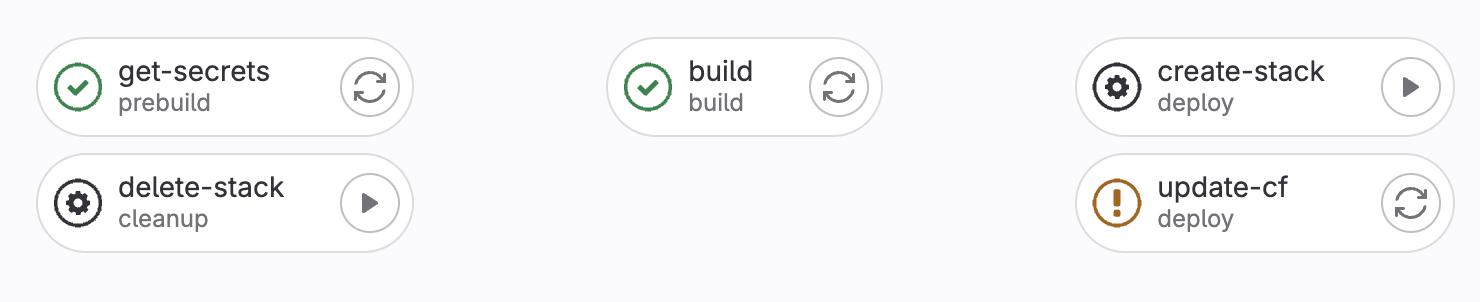
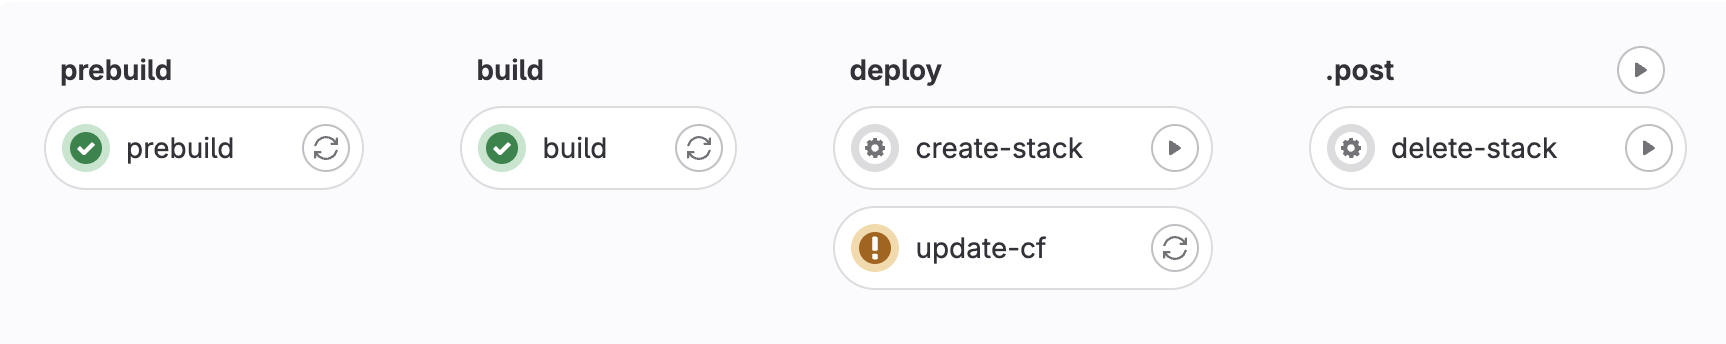
gitlab

diff --git a/_posts/2024-01-22-self-serve-gitlab-environments.md b/_posts/2024-01-22-self-serve-gitlab-environments.md
@@ -1,0 +1,191 @@
+---
+title: "Self-Service testing environment(s)"
+date: 2023-11-01T15:34:30-04:00
+categories:
+  - blog
+tags:
+  - Gitlab
+  - CICD
+  - AWS
+  - Cloudformation
+toc: true
+toc_label: "Contents"
+toc_icon: "book-open"
+---
+
+<style>
+    .page__content {
+        text-align: justify;
+    }
+</style>
+
+
+![image](/assets/images/cart.png)
+
+## What and Why
+
+We originally started with two environments: production and development. Production was built from master and development from our develop branches.
+Developers added code as it was finished to the develop environment, qa personnel did their tests there and after their approval and after getting "business approval" from the manager, the changes were merged to the master branch and automatically deployed.
+
+This worked for a while but as the company grew it caused issues. Things sometimes got out of sync as the development environment contained both the code that the developers uploaded for their own client-server integration, the code that was in testing and the code that was out of testing and waiting for approval to be deployed.
+
+We quickly added another staging environment/branch pair for code that was ready for final testing and all deployment was done from this branch after final testing passed
+
+Eventually 2 issues appeared. One, sometimes out of the multiple changes on the staging environment only some were approved by the manager. This slowed down development as the environment had to be tested all over again after taking out the unapproved changes.
+Second, as the team increased having multiple devs working on a single development environment sometimes caused issues and downtime due to conflicts. 
+
+Eventually we decided to start working with multiple short-lived environments which would be forked from master on demand. Every larger issue in a sprint would get their own environment created and smaller ones like bugfixes could be bundled up in a single one. After developers finished, the unique environment will get into the hands of the QA department and after it passed and final approvals were given the deployment would be done directly from the unique environment to master.
+
+We wanted to give the ability to the developers to create and destroy environments as needed to make the whole procedure are agile as possible as I feared that any unnecessary procedure or bureaucracy would cause them to revert to the old system of using a single environment for everything.
+
+One option was to create a brand new dashboard for this or go with a custom one. Luckily the combination of gitlab and cloudformation allowed us to use the already existing CI/CD pipelines with some smaller changes.
+
+
+## Cloudformation
+
+We start with a basi
+
+## Gitlab
+
+The resulting pipeline looks something like this. 
+
+
+![image](/assets/images/pipeline.png)
+
+
+
+The **"prebuild"** and **"build"** steps get executed for all branches. This will make sure every commit in the repo gets a flag that it can at least build and pass unit tests. 
+
+
+Then the pipeline continues with the deploy stage and the **"update"** step, which will be skipped if the environment doesn't exist. To create a deployed environment for this branch just simply click on play button next to the **"create-stack"** step.
+
+After the environment is created every following commit to this branch will deploy automatically to it through the **"update"** step.
+
+
+To delete the stack simply start the manual step **"delete-stack"** and all traces of it will be deleted. Both delete and create steps have been disabled on our default branch which deploys the production environment for obvious reasons.
+
+
+## CICD Pipeline
+
+### Placeholders and boilerplate
+
+First we define the default docker image used in the pipeline, make sure the pipeline triggers on commits and define the 3 stages. The first two stages are just placeholders to later be filled with actual build and test commands.
+
+
+
+
+```yaml
+image: registry.gitlab.com/gitlab-org/cloud-deploy/aws-base:latest
+
+workflow:
+    rules:
+        - if: '$CI_PIPELINE_SOURCE == "merge_request_event"'
+          when: never
+        - if: "$CI_COMMIT_BRANCH"
+
+stages:
+    - prebuild
+    - build
+    - deploy
+
+
+prebuild:
+    stage: prebuild
+    script:
+        - echo secrets > .env
+    artifacts:
+        paths:
+            - .env
+
+build:
+    stage: build
+    script:
+        - mkdir dist
+        - echo scripts > ./dist/app.js
+    artifacts:
+        paths:
+            - dist/**
+
+```
+
+### Create and Update stacks
+
+We wish to create 2 steps, one manual which will create a new cloudformation stack and one automatic which will check if the stack with that name already exists and update it if it does or exit if it doesn't. 
+
+We can perform the check for the existence of the stack with the `aws cloudformation get-template-summary NAME` command, which will exit with a failure code if a stack with that name doesn't exits and make the step `allow_failure: true`. This isn't optimal as the step will be rendered with a yellow ! in gitlab's UI in this case, possibly causing some confusion. But we will keep it like this for now because gitlab doesn't allow for an easy way for a job to affect the flow of a pipeline.
+
+Now there are 2 different ways we can do this. We can use the `cloudformation deploy` command for both, or use a combination of `cloudformation create-stack` and `cloudformation update-stack`. The `deploy` command is simpler and easier to use but lacks some of the more granular options in the `update/create` CLI commands like rollbacks and stack policies. For now lets go with just deploy, but in a later blog I'll demonstrate how to implement automatic stack rollback on server errors using the `update-stack` command.
+
+We will name our stack: `stack-$CI_COMMIT_REF_SLUG` which will resolve in gitlab runner to the slug of the current branch branch if the trigger for the pipeline is a commit. And we will setup rules so that `create` can't trigger on the master branch and requires a manual step on other branches, and that updating the master branch stack requires a manual confirmation and is automatic on all other branches.
+
+
+```yaml
+
+create-stack:
+    stage: deploy
+    image: registry.gitlab.com/gitlab-org/cloud-deploy/aws-base:latest
+    allow_failure: true
+    script:
+        - aws cloudformation package --template-file ./cf.yml --s3-bucket $DEPLOY_BUCKET  --output-template-file packaged-sam.yaml
+       - aws cloudformation deploy --template-file packaged-sam.yaml  --stack-name stack-$CI_COMMIT_REF_SLUG --capabilities CAPABILITY_NAMED_IAM CAPABILITY_IAM CAPABILITY_AUTO_EXPAND --parameter-override BRANCH=$CI_COMMIT_REF_SLUG --s3-bucket deploy-bucket-841805187071
+    rules:
+        - if: '$CI_COMMIT_BRANCH != "master"'
+          when: manual
+        - if: '$CI_COMMIT_BRANCH == "master"'
+          when: never
+
+update-cf:
+    stage: deploy
+    image: registry.gitlab.com/gitlab-org/cloud-deploy/aws-base:latest
+    allow_failure: true
+    script:
+        - aws cloudformation get-template-summary --stack-name stack-$CI_COMMIT_REF_SLUG > /dev/null
+        - aws cloudformation package --template-file ./cf.yml --s3-bucket $DEPLOY_BUCKET  --output-template-file packaged-sam.yaml
+        - aws cloudformation deploy --template-file packaged-sam.yaml  --stack-name stack-$CI_COMMIT_REF_SLUG --capabilities CAPABILITY_NAMED_IAM CAPABILITY_IAM CAPABILITY_AUTO_EXPAND --parameter-override BRANCH=$CI_COMMIT_REF_SLUG --s3-bucket $DEPLOY_BUCKET
+    rules:
+        - if: '$CI_COMMIT_BRANCH !=  "master"'
+        - if: '$CI_COMMIT_BRANCH == "master"'
+          when: manual
+```
+
+
+### Delete
+
+And in the end we add the commands for deletion of the entire stack. Make sure you disable this step from being executed on you master branch and make it a manual step on all other branches.
+
+There are some resources like S3 buckets that can cause some issues with stack deletion. The files on s3 fall out of the scope of the stack so they don't get deleted and they also prevent the bucket from being deleted causing the whole delete operation to fail. 
+
+There area a couple of solutions to this problem. The cleanest one is to just empty and delete any buckets you created in this step. For example like this:
+
+```sh
+aws s3 rm s3://BUCKET --recursive
+aws s3api delete-bucket --bucket "BUCKET"
+```
+
+Or as a safe solution you can put a flag in the Cloudformation template to retain the bucket even after you delete the stack like this:[1]
+
+```yaml
+Resources:
+  myS3Bucket:
+    Type: AWS::S3::Bucket
+    DeletionPolicy: Retain
+```
+
+```yaml
+delete-stack:
+    stage: .post
+    image: registry.gitlab.com/gitlab-org/cloud-deploy/aws-base:latest
+    needs: []
+    script:
+        - aws cloudformation delete-stack --stack-name stack-$CI_COMMIT_REF_SLUG
+        - aws cloudformation wait stack-delete-complete --stack-name stack-$CI_COMMIT_REF_SLUG 
+    rules:
+        - if: '$CI_COMMIT_BRANCH != "master"'
+          when: manual
+        - if: '$CI_COMMIT_BRANCH == "master"'
+          when: never
+```
+
+
+
+^[1] AWS Deletion policy https://docs.aws.amazon.com/AWSCloudFormation/latest/UserGuide/aws-attribute-deletionpolicy.html
